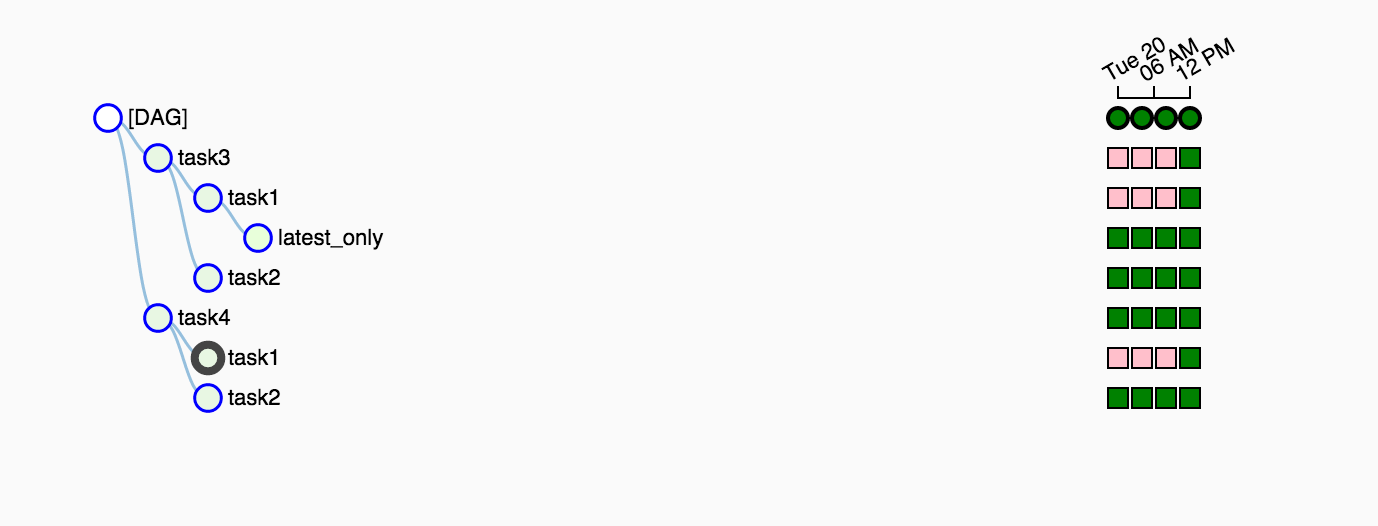
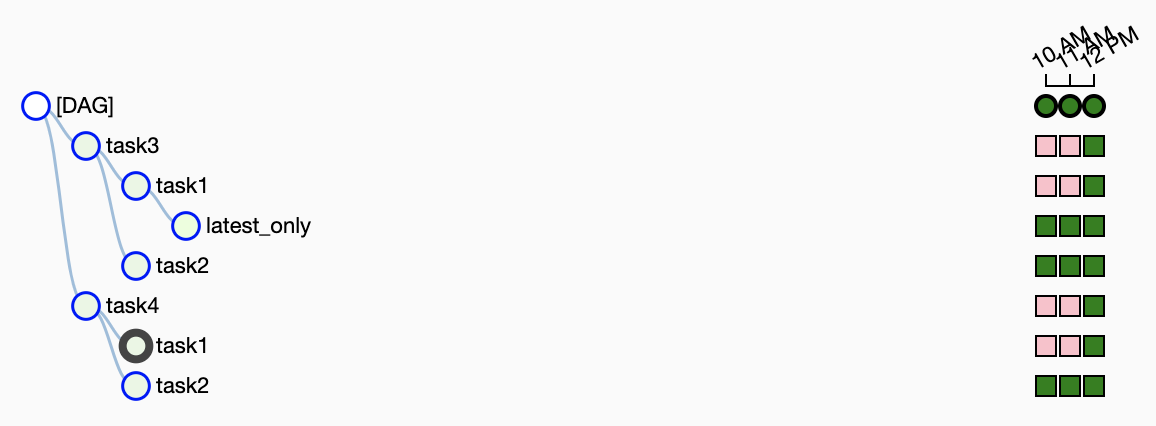
[AIRFLOW-3977] Add examples of trigger rules in doc (#4805)
The current LatestOnlyOperator will skip all downstream tasks blindly.
The doc shows a wrong behavior. It also shows an incorrect example about
the interaction between skipped tasks and trigger rules. I replace it with
another example using BranchingOperator in schedule level.

This fix can resolve this ticket:
https://issues.apache.org/jira/browse/AIRFLOW-3977
Also,
https://issues.apache.org/jira/browse/AIRFLOW-1784

diff --git a/docs/concepts.rst b/docs/concepts.rst
@@ -743,6 +743,67 @@ Note that these can be used in conjunction with ``depends_on_past`` (boolean)
 that, when set to ``True``, keeps a task from getting triggered if the
 previous schedule for the task hasn't succeeded.
 
+One must be aware of the interaction between trigger rules and skipped tasks
+in schedule level. Skipped tasks will cascade through trigger rules 
+``all_success`` and ``all_failed`` but not ``all_done``, ``one_failed``, ``one_success``,
+``none_failed`` and ``dummy``. 
+
+For example, consider the following DAG:
+
+.. code:: python
+
+  #dags/branch_without_trigger.py
+  import datetime as dt  
+  
+  from airflow.models import DAG
+  from airflow.operators.dummy_operator import DummyOperator
+  from airflow.operators.python_operator import BranchPythonOperator  
+  
+  dag = DAG(
+      dag_id='branch_without_trigger',
+      schedule_interval='@once',
+      start_date=dt.datetime(2019, 2, 28)
+  )  
+  
+  run_this_first = DummyOperator(task_id='run_this_first', dag=dag)  
+  branching = BranchPythonOperator(
+      task_id='branching', dag=dag,
+      python_callable=lambda: 'branch_a'
+  )  
+  
+  branch_a = DummyOperator(task_id='branch_a', dag=dag)
+  follow_branch_a = DummyOperator(task_id='follow_branch_a', dag=dag)  
+  
+  branch_false = DummyOperator(task_id='branch_false', dag=dag)  
+  
+  join = DummyOperator(task_id='join', dag=dag)  
+  
+  run_this_first >> branching
+  branching >> branch_a >> follow_branch_a >> join
+  branching >> branch_false >> join
+
+In the case of this DAG, ``join`` is downstream of ``follow_branch_a`` 
+and ``branch_false``. The ``join`` task will show up as skipped 
+because its ``trigger_rule`` is set to ``all_success`` by default and 
+skipped tasks will cascade through ``all_success``. 
+
+.. image:: img/branch_without_trigger.png
+
+By setting ``trigger_rule`` to ``none_failed`` in ``join`` task, 
+
+.. code:: python
+  
+  #dags/branch_with_trigger.py
+  ...
+  join = DummyOperator(task_id='join', dag=dag, trigger_rule='none_failed')
+  ...
+
+The ``join`` task will be triggered as soon as 
+``branch_false`` has been skipped (a valid completion state) and 
+``follow_branch_a`` has succeeded. Because skipped tasks **will not** 
+cascade through ``none_failed``. 
+
+.. image:: img/branch_with_trigger.png
 
 Latest Run Only
 ===============
@@ -755,21 +816,9 @@ a pause just wastes CPU cycles.
 
 For situations like this, you can use the ``LatestOnlyOperator`` to skip
 tasks that are not being run during the most recent scheduled run for a
-DAG. The ``LatestOnlyOperator`` skips all immediate downstream tasks, and
-itself, if the time right now is not between its ``execution_time`` and the
-next scheduled ``execution_time``.
-
-One must be aware of the interaction between skipped tasks and trigger
-rules. Skipped tasks will cascade through trigger rules ``all_success``
-and ``all_failed`` but not ``all_done``, ``one_failed``, ``one_success``,
-and ``dummy``. If you would like to use the ``LatestOnlyOperator`` with
-trigger rules that do not cascade skips, you will need to ensure that the
-``LatestOnlyOperator`` is **directly** upstream of the task you would like
-to skip.
-
-It is possible, through use of trigger rules to mix tasks that should run
-in the typical date/time dependent mode and those using the
-``LatestOnlyOperator``.
+DAG. The ``LatestOnlyOperator`` skips all downstream tasks, if the time 
+right now is not between its ``execution_time`` and the next scheduled 
+``execution_time``.
 
 For example, consider the following DAG:
 
@@ -786,8 +835,8 @@ For example, consider the following DAG:
 
   dag = DAG(
       dag_id='latest_only_with_trigger',
-      schedule_interval=dt.timedelta(hours=4),
-      start_date=dt.datetime(2016, 9, 20),
+      schedule_interval=dt.timedelta(hours=1),
+      start_date=dt.datetime(2019, 2, 28),
   )
 
   latest_only = LatestOnlyOperator(task_id='latest_only', dag=dag)
@@ -811,9 +860,8 @@ for all runs except the latest run. ``task1`` is directly downstream of
 scheduled periods. ``task3`` is downstream of ``task1`` and ``task2`` and
 because of the default ``trigger_rule`` being ``all_success`` will receive
 a cascaded skip from ``task1``. ``task4`` is downstream of ``task1`` and
-``task2`` but since its ``trigger_rule`` is set to ``all_done`` it will
-trigger as soon as ``task1`` has been skipped (a valid completion state)
-and ``task2`` has succeeded.
+``task2``. It will be first skipped directly by ``LatestOnlyOperator``, 
+even its ``trigger_rule`` is set to ``all_done``.
 
 .. image:: img/latest_only_with_trigger.png
 
